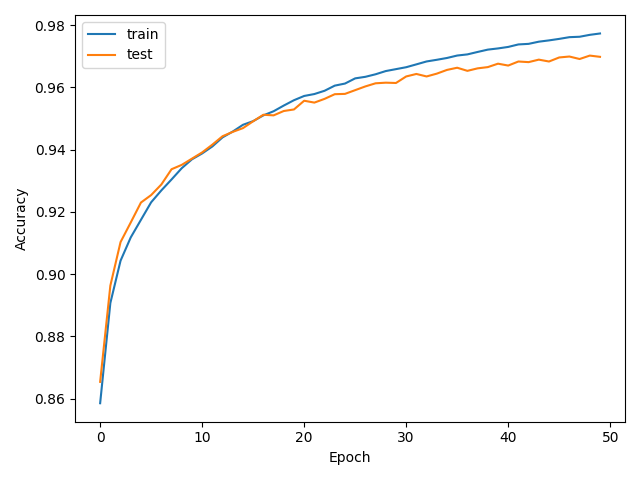
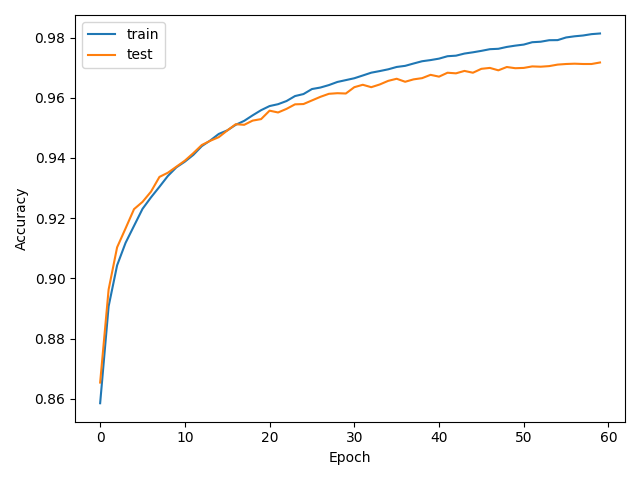
fix: altera o experimento 2 para 60 épocas

diff --git a/experiments/experimento_2.py b/experiments/experimento_2.py
@@ -4,7 +4,7 @@ from train import run_experiment
 
 
 HIDDEN_LAYERS = [128, 64]
-EPOCHS = 50
+EPOCHS = 60
 BATCH_SIZE = 128
 LEARNING_RATE = 0.01
 SEED = 42